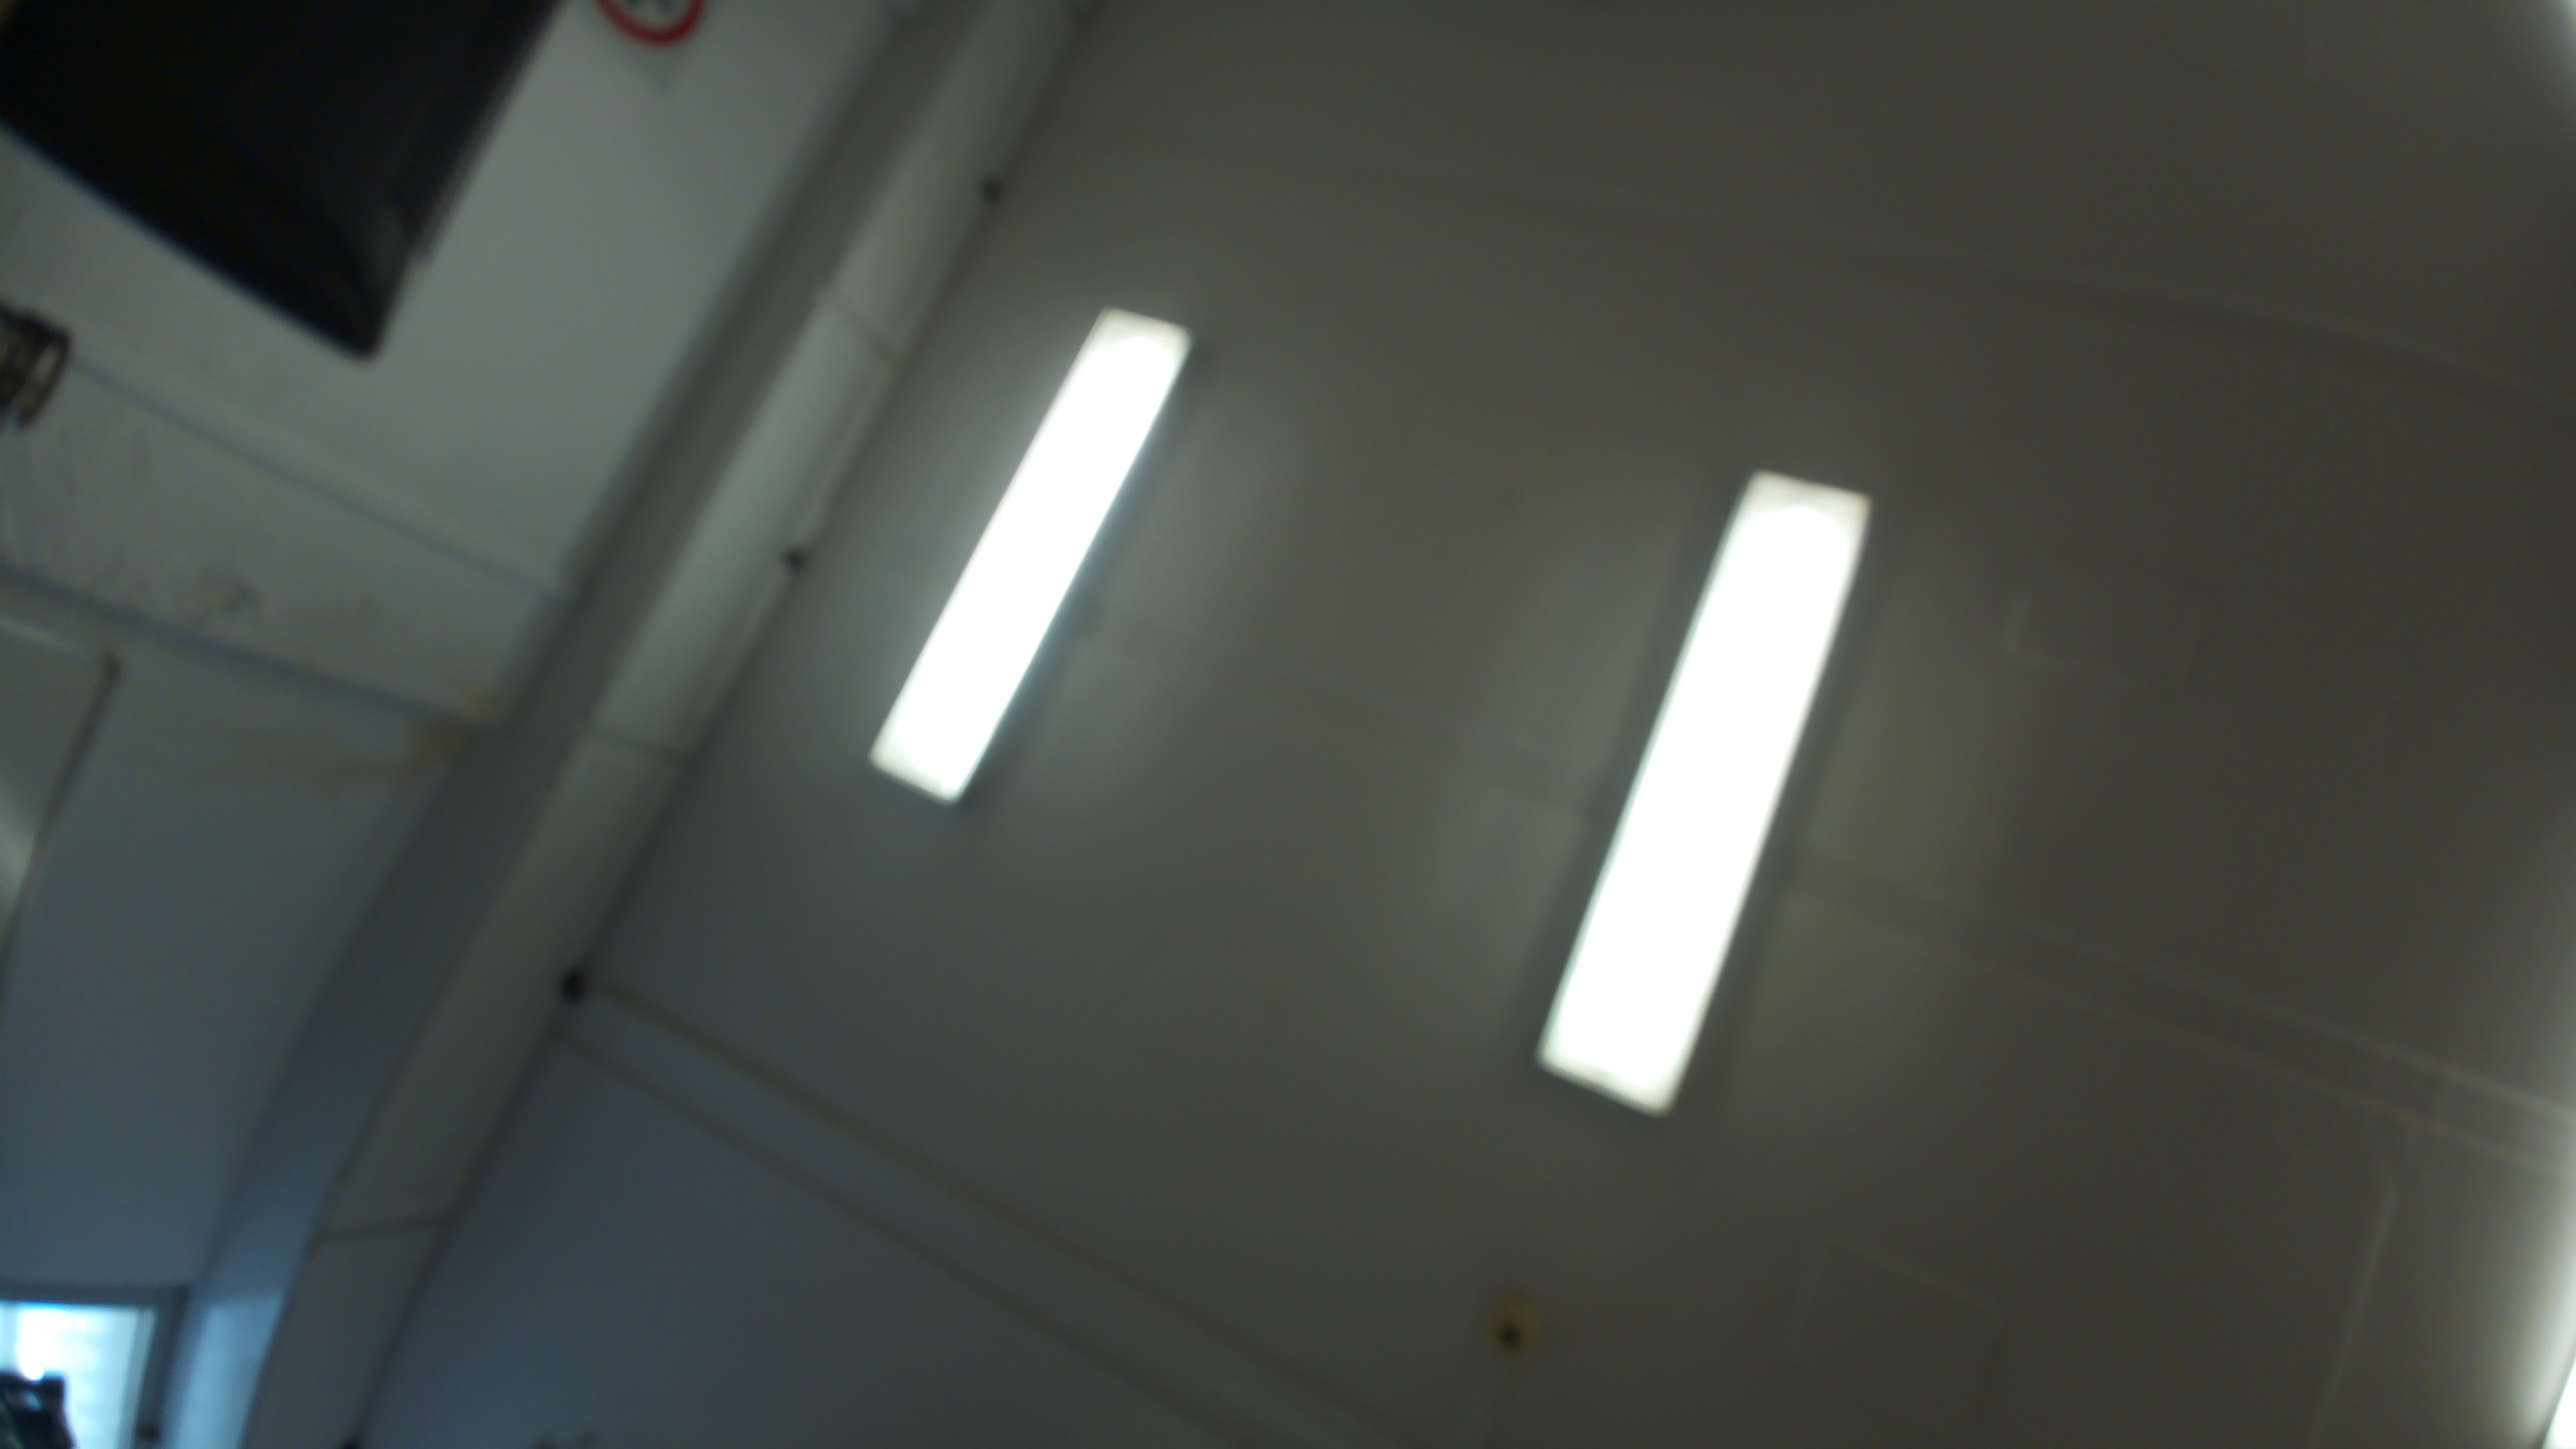
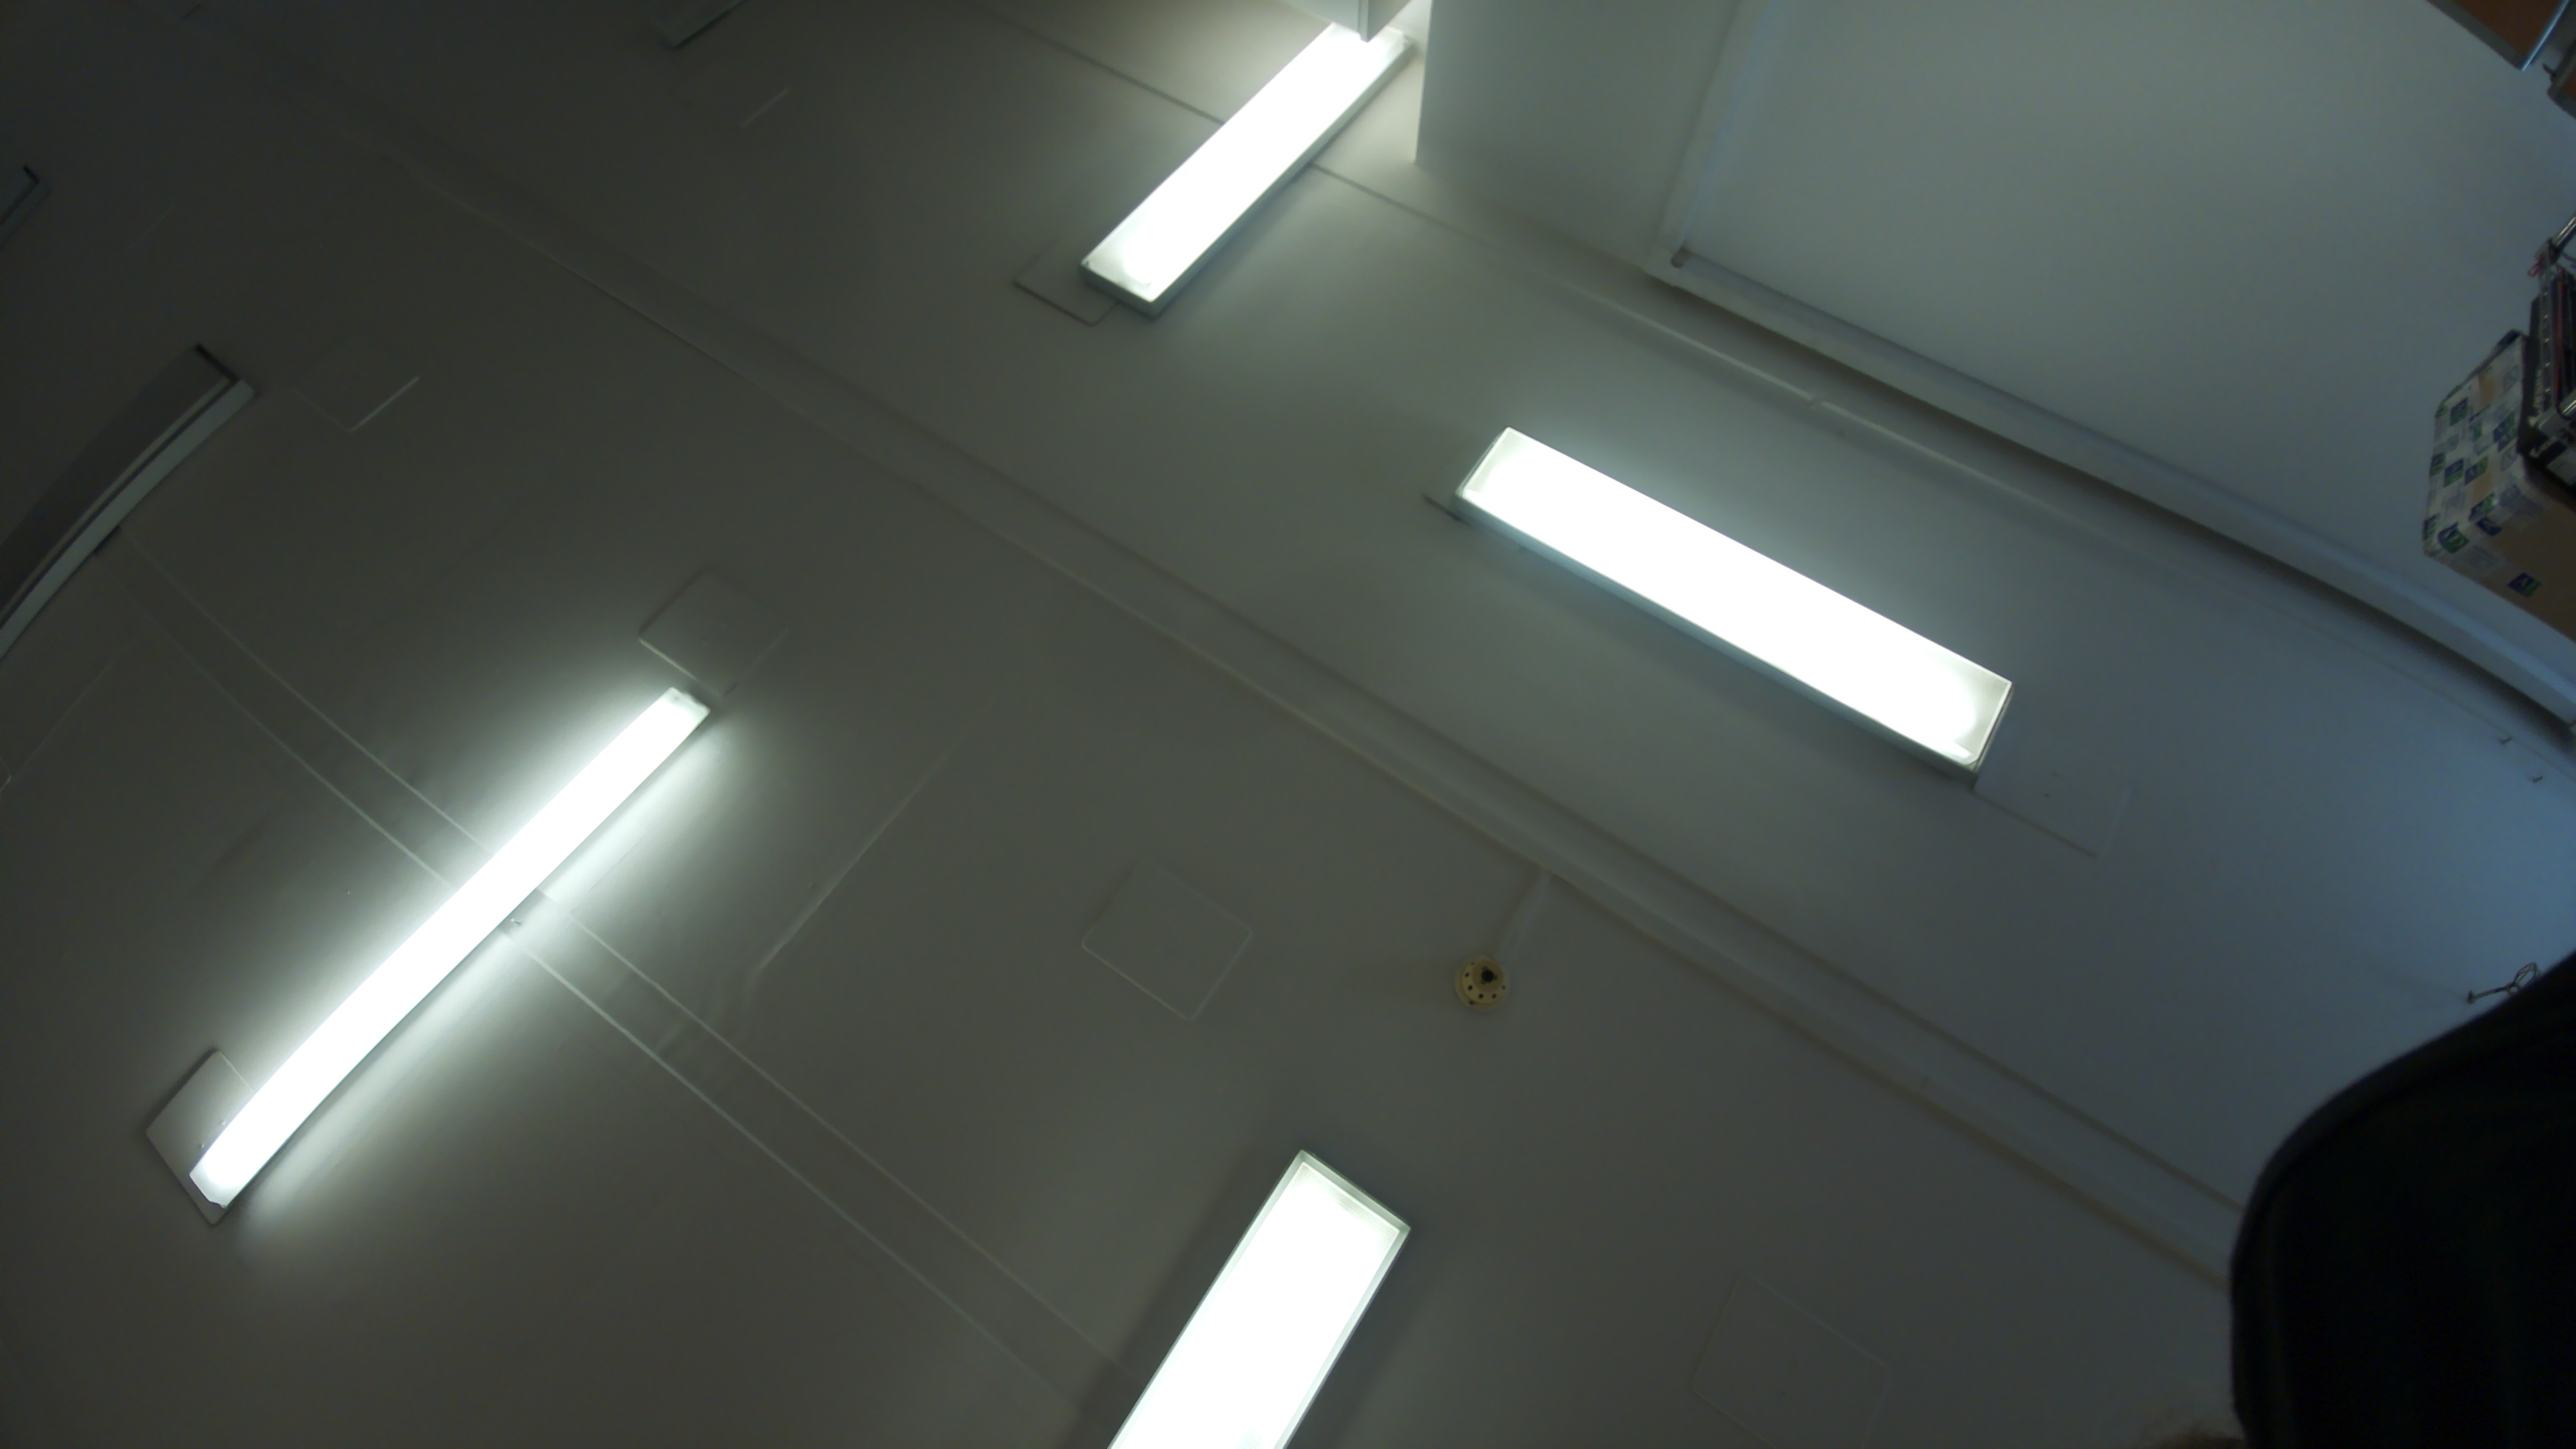
test image 260624 autofocus issue

diff --git a/scripts/image_acquisition.py b/scripts/image_acquisition.py
@@ -1,6 +1,7 @@
 import time
 import os
 from picamera2 import Picamera2
+from libcamera import controls
 
 def check_counter_frames(frames_path):
     count = 0
@@ -16,6 +17,9 @@ def take_photos_interval(frames_path, filename_template, interval, num_photos, c
     camera_config = camera.create_still_configuration(main={"size": (4608, 2592)})
     camera.configure(camera_config)
     camera.start()
+    camera.set_controls({"AfMode" : controls.AfModeEnum.Auto})
+    print(f"Starting autofocus cycle...")
+    camera.autofocus_cycle()
     print(f"Starting frames acquisition...")
     for i in range(num_photos):
         filename = os.path.join(frames_path, filename_template.format(counter))
@@ -30,7 +34,7 @@ def main():
     # Usage:
     # 1) set variables
     interval = 2 # number of seconds between frames
-    num_photos = 3 # number of total frames taken 
+    num_photos = 5 # number of total frames taken 
     # 2) check the counter of the frames
     frames_path = os.path.join(os.getcwd(), "..", "frames")
     count = check_counter_frames(frames_path)
